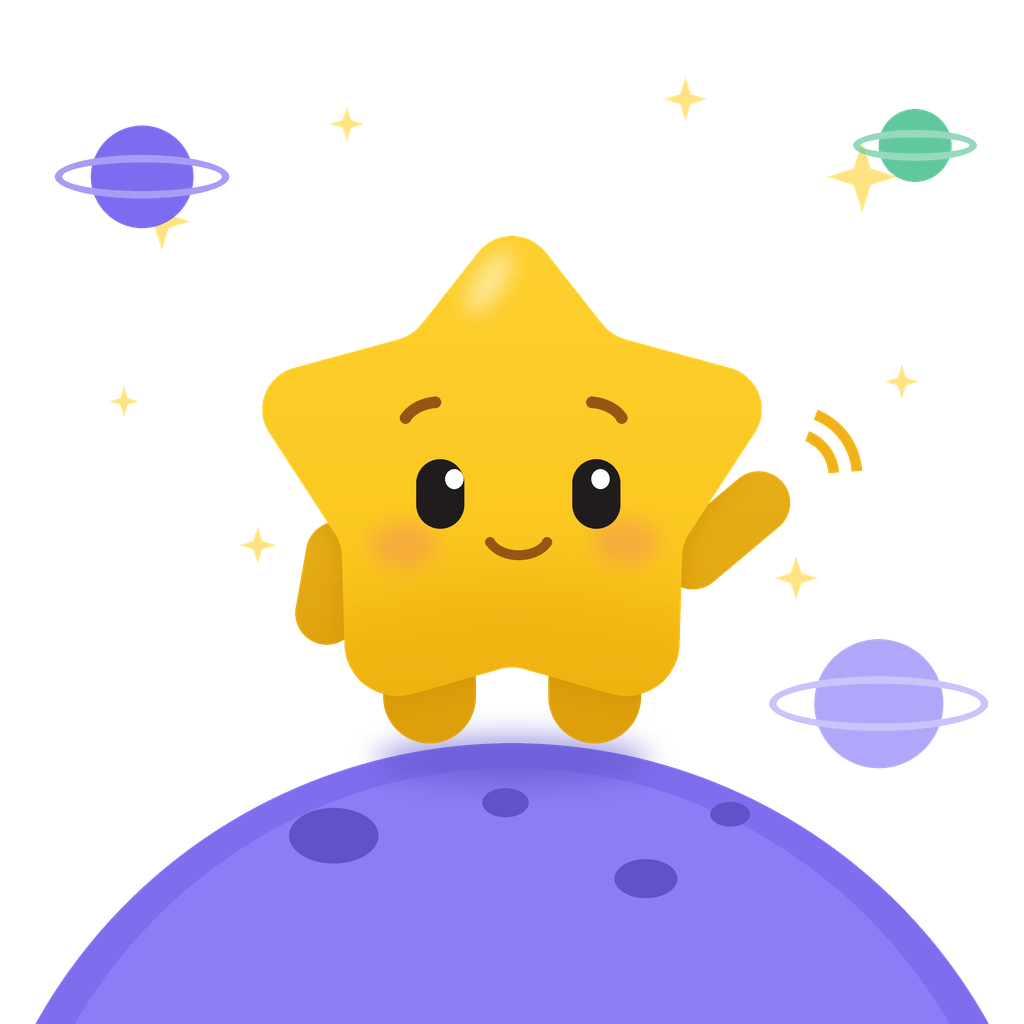
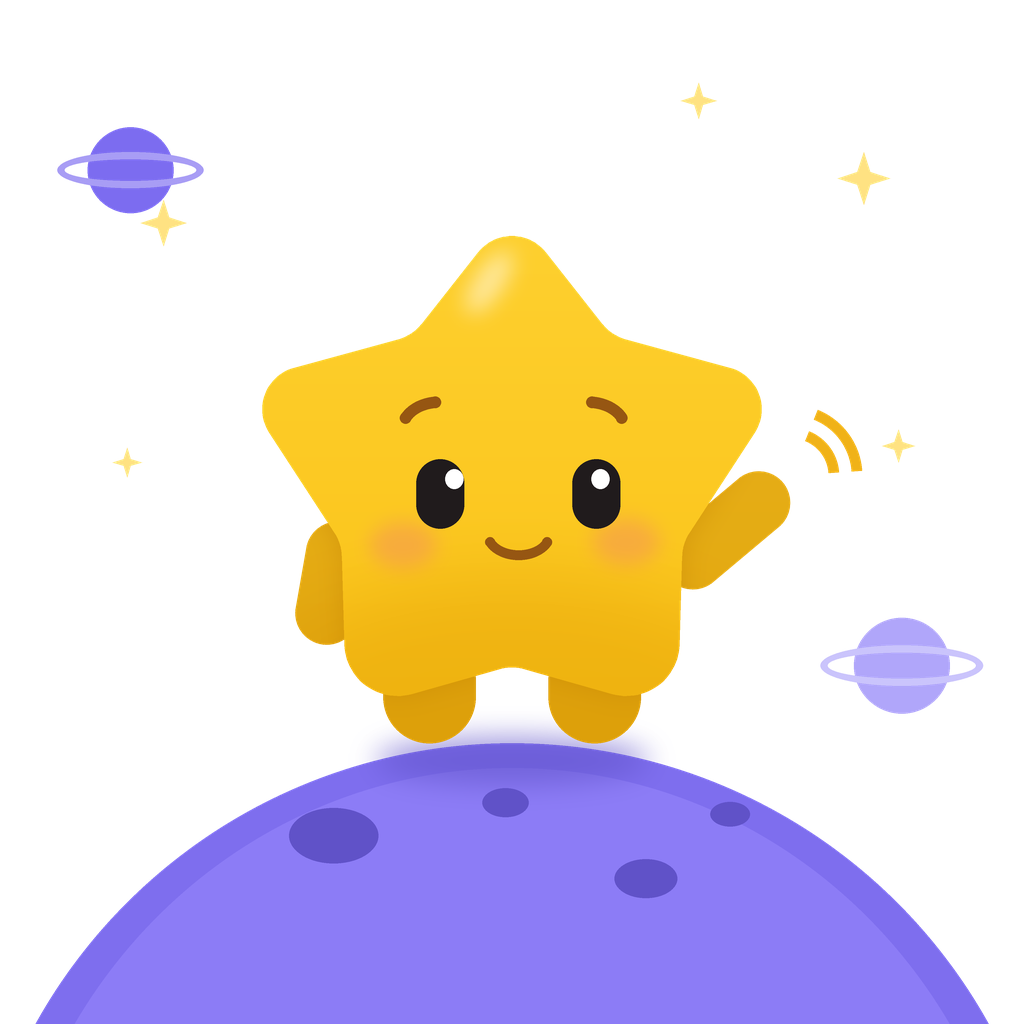
Scale up worn props and thin out the background decor
Headphone cups are now large circles that overlap the side rays with a
thicker band over the top ray; the nightcap and beanie sit deeper on the
ray instead of hovering above it. Star fields, small planets and music
notes are reduced so the decor supports the character instead of
competing with it.

Claude-Session: https://claude.ai/code/session_015M4W5mwAC7ThVprora4HqH

diff --git a/scenes.py b/scenes.py
@@ -72,9 +72,8 @@ def heart(d, cx, cy, size, color, alpha=255):
 def stars_around(img):
     """Звёздная россыпь вокруг персонажа."""
     lay, d = layer(img)
-    for cx, cy, size in ((196, 268, 34), (1044, 214, 42), (312, 660, 22),
-                         (964, 700, 26), (150, 486, 18), (1092, 462, 20),
-                         (420, 150, 20), (830, 120, 26)):
+    for cx, cy, size in ((198, 270, 28), (1046, 216, 32), (154, 560, 18),
+                         (1088, 540, 20), (846, 122, 22)):
         star4(d, cx, cy, size, STAR_LIGHT)
     img.alpha_composite(lay)
 
@@ -149,8 +148,7 @@ def sparkle_burst(img):
 def planets_small(img):
     """Маленькие планеты по углам — космический фон."""
     lay, d = layer(img)
-    for cx, cy, r, col in ((172, 214, 62, ACCENT), (1064, 852, 78, RING),
-                           (1108, 176, 44, GREEN)):
+    for cx, cy, r, col in ((158, 206, 52, ACCENT), (1092, 806, 58, RING)):
         d.ellipse(sbox([cx - r, cy - r, cx + r, cy + r]), fill=col + (255,))
         d.ellipse(sbox([cx - r * 1.7, cy - r * 0.42, cx + r * 1.7, cy + r * 0.42]),
                   outline=col + (170,), width=int(s(9)))
@@ -212,20 +210,18 @@ def cloud(img):
 def headphones(img):
     """Наушники: дуга через верхний луч и две чашки по бокам."""
     lay, d = layer(img)
-    d.arc(sbox([382, 236, 858, 712]), 198, 342, fill=METAL + (255,),
-          width=int(s(36)))
-    for ex in (396, 844):
-        d.rounded_rectangle(sbox([ex - 54, 398, ex + 54, 566]), radius=s(50),
-                            fill=METAL + (255,))
-        d.rounded_rectangle(sbox([ex - 34, 420, ex + 34, 544]), radius=s(32),
-                            fill=METAL_LIGHT + (255,))
+    d.arc(sbox([332, 218, 908, 794]), 202, 338, fill=METAL + (255,),
+          width=int(s(44)))
+    for ex in (344, 896):
+        d.ellipse(sbox([ex - 124, 418, ex + 124, 666]), fill=METAL + (255,))
+        d.ellipse(sbox([ex - 84, 458, ex + 84, 626]), fill=METAL_LIGHT + (255,))
     img.alpha_composite(lay)
 
 
 def music_notes(img):
     """Нотки рядом с головой."""
     lay, d = layer(img)
-    for nx, ny, k in ((968, 300, 1.0), (1080, 420, 0.8), (232, 360, 0.9)):
+    for nx, ny, k in ((1010, 296, 0.9), (232, 336, 0.8)):
         r = 34 * k
         d.ellipse(sbox([nx - r, ny - r * 0.8, nx + r, ny + r * 0.8]),
                   fill=ACCENT + (255,))
@@ -239,21 +235,21 @@ def music_notes(img):
 def nightcap(img):
     """Колпак для сна на верхнем луче."""
     lay, d = layer(img)
-    d.polygon([*sbox([498, 398]), *sbox([742, 398]), *sbox([796, 168])],
+    d.polygon([*sbox([466, 416]), *sbox([776, 416]), *sbox([828, 116])],
               fill=ACCENT + (255,))
-    d.rounded_rectangle(sbox([484, 368, 756, 436]), radius=s(34),
+    d.rounded_rectangle(sbox([450, 378, 792, 458]), radius=s(40),
                         fill=CLOUD + (255,))
-    d.ellipse(sbox([756, 122, 842, 208]), fill=CLOUD + (255,))
+    d.ellipse(sbox([786, 66, 884, 164]), fill=CLOUD + (255,))
     img.alpha_composite(lay)
 
 
 def beanie(img):
     """Шапочка — «стиль дня»."""
     lay, d = layer(img)
-    d.pieslice(sbox([474, 156, 766, 402]), 180, 360, fill=ACCENT + (255,))
-    d.rounded_rectangle(sbox([462, 326, 778, 386]), radius=s(28),
+    d.pieslice(sbox([458, 186, 782, 476]), 180, 360, fill=ACCENT + (255,))
+    d.rounded_rectangle(sbox([444, 392, 796, 462]), radius=s(34),
                         fill=RING + (255,))
-    d.ellipse(sbox([588, 108, 652, 172]), fill=RING + (255,))
+    d.ellipse(sbox([582, 138, 658, 214]), fill=RING + (255,))
     img.alpha_composite(lay)
 
 
